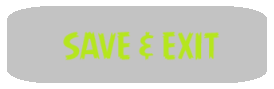
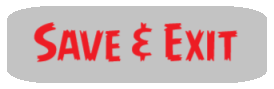
V1.7
L2 & L3 Created (Template wise)
Save&Exit Image fixed.

Changed region(s): [[0.1168, 0.2472, 0.8759, 0.6966]]

diff --git a/core/src/main/java/com/mygame/angrybirds/Level2.java b/core/src/main/java/com/mygame/angrybirds/Level2.java
@@ -1,4 +1,96 @@
 package com.mygame.angrybirds;
 
-public class Level2 {
+import com.badlogic.gdx.Gdx;
+import com.badlogic.gdx.ScreenAdapter;
+import com.badlogic.gdx.graphics.GL20;
+import com.badlogic.gdx.graphics.Texture;
+import com.badlogic.gdx.graphics.g2d.SpriteBatch;
+import com.badlogic.gdx.scenes.scene2d.Stage;
+import com.badlogic.gdx.scenes.scene2d.ui.ImageButton;
+import com.badlogic.gdx.scenes.scene2d.utils.TextureRegionDrawable;
+
+public class Level2 extends ScreenAdapter {
+    private SpriteBatch batch;
+    private Texture background; // Background for the level
+    private Texture ground; // Texture for the ground
+    private Texture slingshot; // Texture for the slingshot
+    private Stage stage; // Stage for handling UI elements
+    private ImageButton pauseButton; // Button for pausing the game
+
+    @Override
+    public void show() {
+        batch = new SpriteBatch();
+        background = new Texture(Gdx.files.internal("angrybirds/GameBG.png")); // Load the background image
+        ground = new Texture(Gdx.files.internal("angrybirds/ground.png")); // Load the ground image
+        slingshot = new Texture(Gdx.files.internal("angrybirds/slingshot.png")); // Load the slingshot image
+
+        // Initialize the stage
+        stage = new Stage();
+        Gdx.input.setInputProcessor(stage); // Set input processor to the stage
+
+        // Load pause button texture
+        Texture pauseButtonTexture = new Texture(Gdx.files.internal("ui/Pause.png")); // Ensure you have a pause button texture
+        pauseButton = new ImageButton(new TextureRegionDrawable(pauseButtonTexture));
+
+        // Set button size and position (Top right corner)
+        float buttonWidth = 50;
+        float buttonHeight = 50;
+        pauseButton.setSize(buttonWidth, buttonHeight);
+        pauseButton.setPosition(Gdx.graphics.getWidth() - buttonWidth - 20, Gdx.graphics.getHeight() - buttonHeight - 20); // Position at top right corner
+
+        // Add button to the stage
+        stage.addActor(pauseButton);
+
+        // Add listener for pause button click
+        pauseButton.addListener(event -> {
+            if (event.isHandled()) {
+                System.out.println("Pause clicked!");
+                ((AngryBirdsGame) Gdx.app.getApplicationListener()).setScreen(new PauseScreen());
+                // Handle pause action here (e.g., show a pause menu)
+                return true; // Event handled
+            }
+            return false; // Event not handled
+        });
+    }
+
+    @Override
+    public void render(float delta) {
+        Gdx.gl.glClearColor(1, 1, 1, 1); // Clear the screen to white.
+        Gdx.gl.glClear(GL20.GL_COLOR_BUFFER_BIT);
+
+        batch.begin();
+
+        // Draw the background texture scaled to fit the screen dimensions
+        float screenWidth = Gdx.graphics.getWidth();
+        float screenHeight = Gdx.graphics.getHeight();
+
+        batch.draw(background, 0, 0, screenWidth, screenHeight); // Draw at (0,0) and scale to fit
+
+        // Draw the ground at the bottom of the screen
+        batch.draw(ground, 0, 0); // Positioning at (0,0) - bottom of the screen
+
+        // Draw the slingshot above the ground with reduced size
+        float slingshotXPosition = (screenWidth - slingshot.getWidth() / 10) / 7; // Center horizontally
+        float slingshotYPosition = ground.getHeight() - 30; // Position it right above the ground
+
+        // Scale down slingshot size by a factor of 10
+        float slingshotWidth = slingshot.getWidth() / 7;
+        float slingshotHeight = slingshot.getHeight() / 7;
+
+        batch.draw(slingshot, slingshotXPosition, slingshotYPosition, slingshotWidth, slingshotHeight); // Draw scaled slingshot
+
+        batch.end();
+
+        stage.act(delta); // Update the stage
+        stage.draw();     // Draw the stage and its actors (buttons)
+    }
+
+    @Override
+    public void dispose() {
+        batch.dispose();
+        background.dispose();
+        ground.dispose();
+        slingshot.dispose(); // Dispose of textures when done
+        stage.dispose();     // Dispose of the stage and its resources
+    }
 }

diff --git a/core/src/main/java/com/mygame/angrybirds/Level3.java b/core/src/main/java/com/mygame/angrybirds/Level3.java
@@ -1,4 +1,96 @@
 package com.mygame.angrybirds;
 
-public class Level3 {
+import com.badlogic.gdx.Gdx;
+import com.badlogic.gdx.ScreenAdapter;
+import com.badlogic.gdx.graphics.GL20;
+import com.badlogic.gdx.graphics.Texture;
+import com.badlogic.gdx.graphics.g2d.SpriteBatch;
+import com.badlogic.gdx.scenes.scene2d.Stage;
+import com.badlogic.gdx.scenes.scene2d.ui.ImageButton;
+import com.badlogic.gdx.scenes.scene2d.utils.TextureRegionDrawable;
+
+public class Level3 extends ScreenAdapter {
+    private SpriteBatch batch;
+    private Texture background; // Background for the level
+    private Texture ground; // Texture for the ground
+    private Texture slingshot; // Texture for the slingshot
+    private Stage stage; // Stage for handling UI elements
+    private ImageButton pauseButton; // Button for pausing the game
+
+    @Override
+    public void show() {
+        batch = new SpriteBatch();
+        background = new Texture(Gdx.files.internal("angrybirds/GameBG.png")); // Load the background image
+        ground = new Texture(Gdx.files.internal("angrybirds/ground.png")); // Load the ground image
+        slingshot = new Texture(Gdx.files.internal("angrybirds/slingshot.png")); // Load the slingshot image
+
+        // Initialize the stage
+        stage = new Stage();
+        Gdx.input.setInputProcessor(stage); // Set input processor to the stage
+
+        // Load pause button texture
+        Texture pauseButtonTexture = new Texture(Gdx.files.internal("ui/Pause.png")); // Ensure you have a pause button texture
+        pauseButton = new ImageButton(new TextureRegionDrawable(pauseButtonTexture));
+
+        // Set button size and position (Top right corner)
+        float buttonWidth = 50;
+        float buttonHeight = 50;
+        pauseButton.setSize(buttonWidth, buttonHeight);
+        pauseButton.setPosition(Gdx.graphics.getWidth() - buttonWidth - 20, Gdx.graphics.getHeight() - buttonHeight - 20); // Position at top right corner
+
+        // Add button to the stage
+        stage.addActor(pauseButton);
+
+        // Add listener for pause button click
+        pauseButton.addListener(event -> {
+            if (event.isHandled()) {
+                System.out.println("Pause clicked!");
+                ((AngryBirdsGame) Gdx.app.getApplicationListener()).setScreen(new PauseScreen());
+                // Handle pause action here (e.g., show a pause menu)
+                return true; // Event handled
+            }
+            return false; // Event not handled
+        });
+    }
+
+    @Override
+    public void render(float delta) {
+        Gdx.gl.glClearColor(1, 1, 1, 1); // Clear the screen to white.
+        Gdx.gl.glClear(GL20.GL_COLOR_BUFFER_BIT);
+
+        batch.begin();
+
+        // Draw the background texture scaled to fit the screen dimensions
+        float screenWidth = Gdx.graphics.getWidth();
+        float screenHeight = Gdx.graphics.getHeight();
+
+        batch.draw(background, 0, 0, screenWidth, screenHeight); // Draw at (0,0) and scale to fit
+
+        // Draw the ground at the bottom of the screen
+        batch.draw(ground, 0, 0); // Positioning at (0,0) - bottom of the screen
+
+        // Draw the slingshot above the ground with reduced size
+        float slingshotXPosition = (screenWidth - slingshot.getWidth() / 10) / 7; // Center horizontally
+        float slingshotYPosition = ground.getHeight() - 30; // Position it right above the ground
+
+        // Scale down slingshot size by a factor of 10
+        float slingshotWidth = slingshot.getWidth() / 7;
+        float slingshotHeight = slingshot.getHeight() / 7;
+
+        batch.draw(slingshot, slingshotXPosition, slingshotYPosition, slingshotWidth, slingshotHeight); // Draw scaled slingshot
+
+        batch.end();
+
+        stage.act(delta); // Update the stage
+        stage.draw();     // Draw the stage and its actors (buttons)
+    }
+
+    @Override
+    public void dispose() {
+        batch.dispose();
+        background.dispose();
+        ground.dispose();
+        slingshot.dispose(); // Dispose of textures when done
+        stage.dispose();     // Dispose of the stage and its resources
+    }
 }

diff --git a/core/src/main/java/com/mygame/angrybirds/LevelSelectScreen.java b/core/src/main/java/com/mygame/angrybirds/LevelSelectScreen.java
@@ -95,6 +95,7 @@ public class LevelSelectScreen extends ScreenAdapter {
         level2Button.addListener(event -> {
             if (event.isHandled()) {
                 System.out.println("Level 2 selected!");
+                ((AngryBirdsGame) Gdx.app.getApplicationListener()).setScreen(new Level2());
                 return true;
             }
             return false;
@@ -111,6 +112,7 @@ public class LevelSelectScreen extends ScreenAdapter {
         level3Button.addListener(event -> {
             if (event.isHandled()) {
                 System.out.println("Level 3 selected!");
+                ((AngryBirdsGame) Gdx.app.getApplicationListener()).setScreen(new Level3());
                 return true;
             }
             return false;
